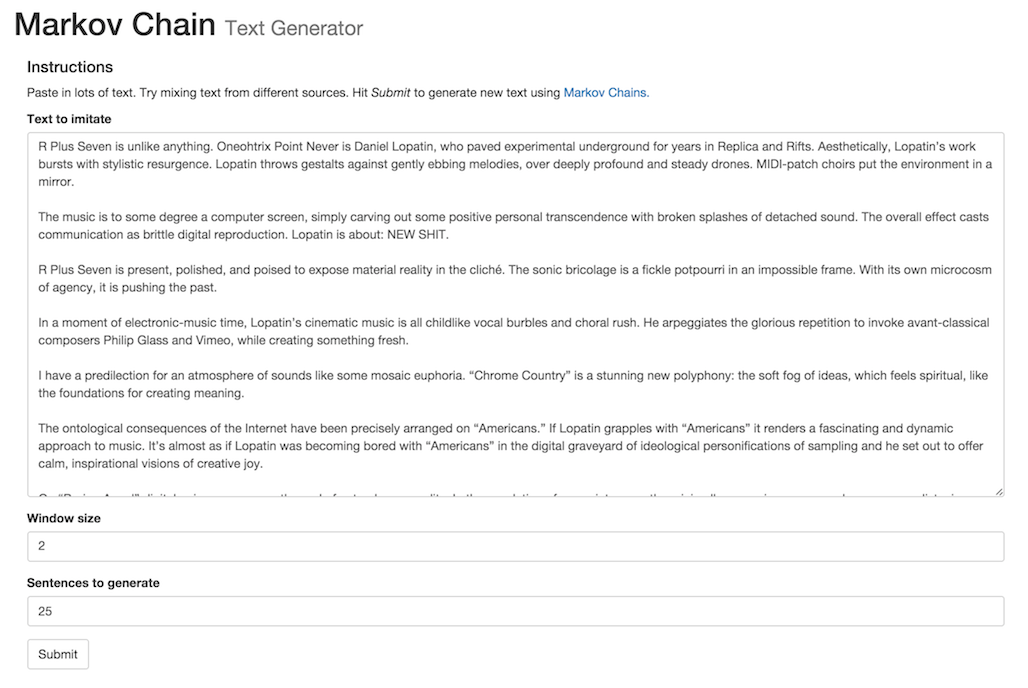
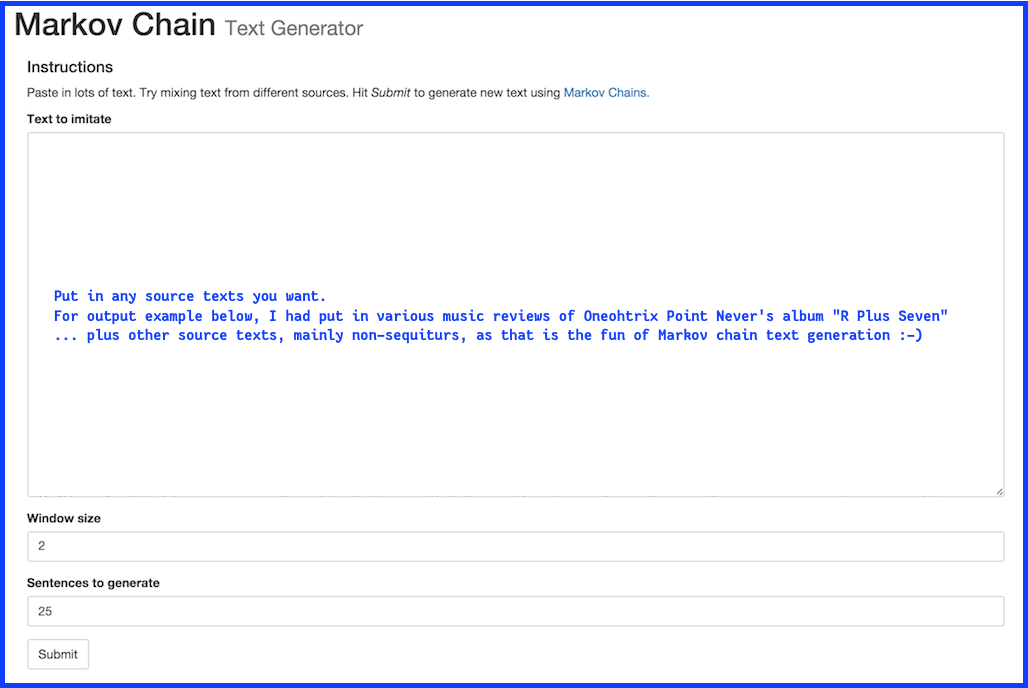
Misc. updates to README (no code changes)

Changed region(s): [[0.0, 0.0, 1.0, 1.0]]

diff --git a/README.md b/README.md
@@ -1,61 +1,74 @@
 presswork
 =============
 
-Presswork provides an easy-to-use Markov chain text generator.
-It also supplies a little Flask web app that you might find convenient for playing with text.
+This project was just for fun. It provides an easy-to-use text generator using Markov chains. You give it a bunch of text, it generates more text based on those models. It can be used from code, or you can locally run the [Flask](http://flask.pocoo.org) app and rapidly play around through your web browser. It is not utilitarian nor ready for any production purpose... but it was fun! For a library that is more recently maintained, see [jsvine/markovify](https://github.com/jsvine/markovify).
 
-NOTE: I found another Python library like this one, but with more features --
-see **[Barrucadu/markov](https://github.com/Barrucadu/markov).** (It supports not just sentence tokenization,
- but also paragraph tokenization). You may want to try that if this library doesn't meet your needs.
+Goal was ease of use. Here's some easy usage from code:
 
-This example code ...
-
-    #!/usr/bin/env python
-
-    from presswork import MarkovChainTextMaker 
-    # Create an instance of the Markov chain text generator.
-    # By default it has no persistence, 
-    but if you give it a file path it'll save/reload its database.
-    text_maker = MarkovChainTextMaker("/tmp/markov")
-    
-    # Let's say we have this input text ... (You want a much longer corpus for cool stuff to happen)
-    corpus = "Beautiful is better than ugly. Explicit is better than implicit."
-    
-    # To generate the markov chain's language model ...
-    text_maker.database_init(corpus)
-    
-    # Generate some silly sentences
-    print text_maker.make_sentences(2)
-
-Might output ...
-
+    >>> from presswork import MarkovChainTextMaker 
+    >>> text_maker = MarkovChainTextMaker("/tmp/markov")
+    >>> text_maker.database_init("Beautiful is better than ugly. Explicit is better than implicit.")
+    >>> print text_maker.make_sentences(2)
     Explicit is better than ugly .  Beautiful is better than implicit .
 
-**See also `tests/test_presswork.py` for more usage examples.**
-
-presswork persists the Markov model using pickle, dumping a dictionary.
-(A tree structure of probabilities and functions, that can easily be reloaded/unpickled 
-to train the model on more data, later). This entails that you have to use the same version of python to store the data and to
-restore the data, as pickle is one of those things that have changed from python2 to python3.
-
-If you're just generating text for fun, I recommend using the little **web app** (instructions below).
-
-Note, it is not optimized for outputting well-formatted text without human intervention.
-It leaves spaces around punctuation for example, assuming you'll come back and edit
-the text before doing something with it.
+The local [Flask](http://flask.pocoo.org) app is better though. More details on both, below.
 
 background
 ==========
 
-* Purpose: generate text for a blog poking fun at reviews of electronic music,
-    which are often very ... inspired? Whimsical? Off-the-wall? I only wrote a few,
-    but check them out (warning, contains some graphic content!): [Presswork](http://presswork.tumblr.com/)
-* Forked permanently from [TehMillhouse/PyMarkovChain](https://github.com/TehMillhouse/PyMarkovChain)
+* Purpose: generate some text - specifically I wanted to write some parodies of music reviews, specifically of some electronic and experimental music I love. I love the music, but the reviews can be a bit... funny. So I wanted to poke more fun. I published a couple of posts, and hand some laughs with friends. Here: [Presswerk](http://presswerk.tumblr.com/). I was going to do more, but I turned my attention back to making new music.
+* Original Markov Chain class forked from [TehMillhouse/PyMarkovChain](https://github.com/TehMillhouse/PyMarkovChain)
     * Added sentence tokenization support (via NLTK)
-    * Added unit tests (86% test coverage of `presswork` module for now)
-    * Added web server for playing around easily. My preferred way to use this is to keep generating
-    text, selectively grabbing the bits I like, sometimes feeding things back in ... but always
-    sort of "collaging" text it generates, to make an entertaining result
+    * Added unit tests (86% test coverage of the module)
+    * Added little Flask web app for playing around rapidly
+
+setup
+=====
+
+To install and use,
+
+* Grab this GitHub repository. (I feel this code is not utilitarian enough to put it on PyPI)
+  `cd` into the directory.
+* `pip install -e .` to install `presswork` (in a [virtualenv](https://virtualenv.pypa.io/en/latest/))
+* Install dependencies.
+    * `pip install -r requirements.txt`
+    * If you plan to use the [Flask](http://flask.pocoo.org) web app, you need to also do `pip install -r requirements-server.txt`
+* Download required [NLTK](http://www.nltk.org/) corpora. There's a script in here to help: `python ./scripts/download_corpora.py`
+
+
+recommended usage: play with the web app locally
+===============
+
+My preferred way to use this is to keep generating text, selectively grabbing the bits I like and copying out to a notepad... sometimes feeding things back in, sometimes adding in new source texts... but always sort of "collaging" between the source text, generated text, and so on. Entertaining results, regardless.
+
+Running the Flask app locally is easy.
+
+    # ASSUMPTION: you have already done `pip install -r requirements-server.txt`
+    $ python flask_app/app.py 8080
+                             #^^^^ pick any port you want. defaults to 80.
+
+Then in your web browser, go to http://localhost:8080, or whatever port, and play around. Here is a snapshot from [when I was jamming with reviews of Oneohtrix Point Never](http://presswerk.tumblr.com/).
+
+![Input to presswork web app](.readme_images/presswork_web_app_input.png)
+![Output from presswork web app](.readme_images/presswork_web_app_output.png)
+
+
+
+#### Caveats
+
+* Suitable only for local usage, **please** don't deploy it anywhere.
+* As currently written, I don't have the Markov database/corpora persisting between runs/submissions. That is, each time you submit text, it loads in, and generates and outputs; next submission is a clean slate. This was the maximum flexibility for a first cut, and it was the workflow I wanted. To include various source texts at once, just paste all in the input box (and to save that input for multiple rounds of generation, just select-all and copy, re-inputting as needed). If you want to "accumulate" text as you go, go ahead: continue feeding the output back into the input. Or combine output with other freshi nputs. YMMV but this was was exactly the kind of workflow as I was after for this frivolous purpose :-)
+* I haven't optimized the performance. Large input takes longer to handle, so if you throw in whole books from Project Gutenberg it will hang a bit
+
+#### A similar workflow, that would get around the caveats
+
+To get around those caveats without addressing directly, switch to scripting and a text editor. Make a script - follow the usage examples seen in `flask_app` module, using `presswork` module. Have your script read from a file repeatedly. Edit that file in your favorite plaintext editor, frequently saving, maybe retriggering your script upon each save (many ways to do that). Less instant gratification to set up, but bit snappier and less messy, if for some reason you want to get serious about making silly text ;-)
+
+### More code details
+
+For more usage examples see `flask_app` as well as `tests/test_presswork.py`. Also, the code is pretty self-explanatory and has docstrings too.
+
+Note about storage/'database' - presswork persists the Markov model using `pickle` (you can choose what path). Its data structure is a dictionary of probabilities/scores, and functions. This entails that you have to use the same version of python to store the data and to restore the data - `pickle` changed between Python 2 and 3.
 
 ### Test coverage snapshot
 
@@ -78,66 +91,27 @@ presswork/presswork.py     131     18    86%
 TOTAL                      132     18    86%
 ```
 
-setup
-=====
-
-To install and use,
-
-* Grab the GitHub repository. (I feel this code is not utilitarian enough to put it on PyPI)
-  `cd` into the directory.
-* Install `presswork`: `pip install .` (you should probably do this in a [virtualenv](https://virtualenv.pypa.io/en/latest/))
-* Run script to download required [NLTK](http://www.nltk.org/) corpora: `python ./scripts/download_corpora.py`
-* Use from code or via thin web application:
-    * From code: `import presswork` and do your thing - see usage example above
-    * web application, see below
-
-web application
-===============
-
-To play with text very fast, I recommend using the web application.
-
-    $ python flask_app/app.py
-
-Or pick a different port:
-
-    $ python flask_app/app.py 8080
-
-![Input to presswork web app](.readme_images/presswork_web_app_input.png)
-![Output from presswork web app](.readme_images/presswork_web_app_output.png)
-
-Caveats:
-
-* Suitable only for local usage, don't deploy it anywhere.
-* As currently written, it doesn't use a database, so each text submission is a clean slate.
-If you want to "accumulate" text just copy the output and paste into text area. T
-* I haven't optimized the app at all, and long text will probably hang a long time (i.e. whole long books)
-
-To get serious about making silly text, I would recommend writing a script;
-having that script read from a file;
-editing that file in your favorite plain text editor (wherever copying/pasting is easy);
-and frequently saving that file & retriggering that script.
-You could use the `presswork` module easily for this.
-Check the `flask_app` module for example usage and go from there.
-
-room for improvement!
+what I would improve if I pick this back up
 ============
 
-This library is rudimentary and just for fun. But already I think these things would be nice,
-maybe I will do them:
+This library is rudimentary and just for fun. If I pick it back up to play with it more, these are the changes I would make.
 
-* Main code
-    * Format punctuation better so there isn't extra whitespace around every punctuation mark
-    * Configurable support for different tokenizers. (Word tokenizer could be swapped out,
-    sentence tokenizer could also be swapped out)
-    * Configurable support for *stopwords*
+* Main code - PROBABLY swap out the default Markov implementation with using more robust implementation from [markovify](https://github.com/jsvine/markovify library)
+    * Then wire up configurability improvements as noted below
+    * CAVEAT: it seems that markovify lib is using its own quick splitters/tokenizers. Maybe I would fork it, and add the option to use NLTK as backend (make pluggable)
+* Morevoer, the Markov implementation should be pluggable. Then I could swap with others like https://github.com/pteichman/cobe and see what's best.
+* Main code - regardless of which Markov implementation (stick with current one or switch to markovify), I wanted to make these chanes:
+    * Configurable support for different tokenizers from NLTK. (Word tokenizer could be swapped out, sentence tokenizer could also be swapped out. Dropdown in the Flask app could be good.)
+    * Make the *stopwords* setup configurable, at code level and maybe Flask app too.
     * Configurable support for handling contractions (i.e. option to replace "don't" with "do not"
     in case that makes for better text generation with your input corpus)
+    * Improve punctuation handling. It's handling puncutation in a silly way. I have some logic to ensure `"foo"` and `"foo."` are treated as separate tokens, but it's handled crudely (just a first cut). So currently when the tokens are joined together into a string and returned to user, there is whitespace around all the punctuation, which forces some manual editing before finally using the generated text. Fixing this up won't be hard, just have to do it.
 * Web application
-    * Add options for using a database (well)
-        * Pick filepath
-        * Clear database file
-        * Switch between persistent database files
-    * Some tests for the web application
+    * Add options to the Flask app for persisting the database between runs, but also freely clearing it, switching between database files, and so on
+        * Pick any filepath
+        * Select/autocomplete from filepaths used so far (enable workflow of easily switching between modes/presets)
+        * Clear database file (back up to /tmp/ then clear)
+    * There are already tests for the `presswork` module but none for the Flask app. Could add some. 
 
 development
 ===========
